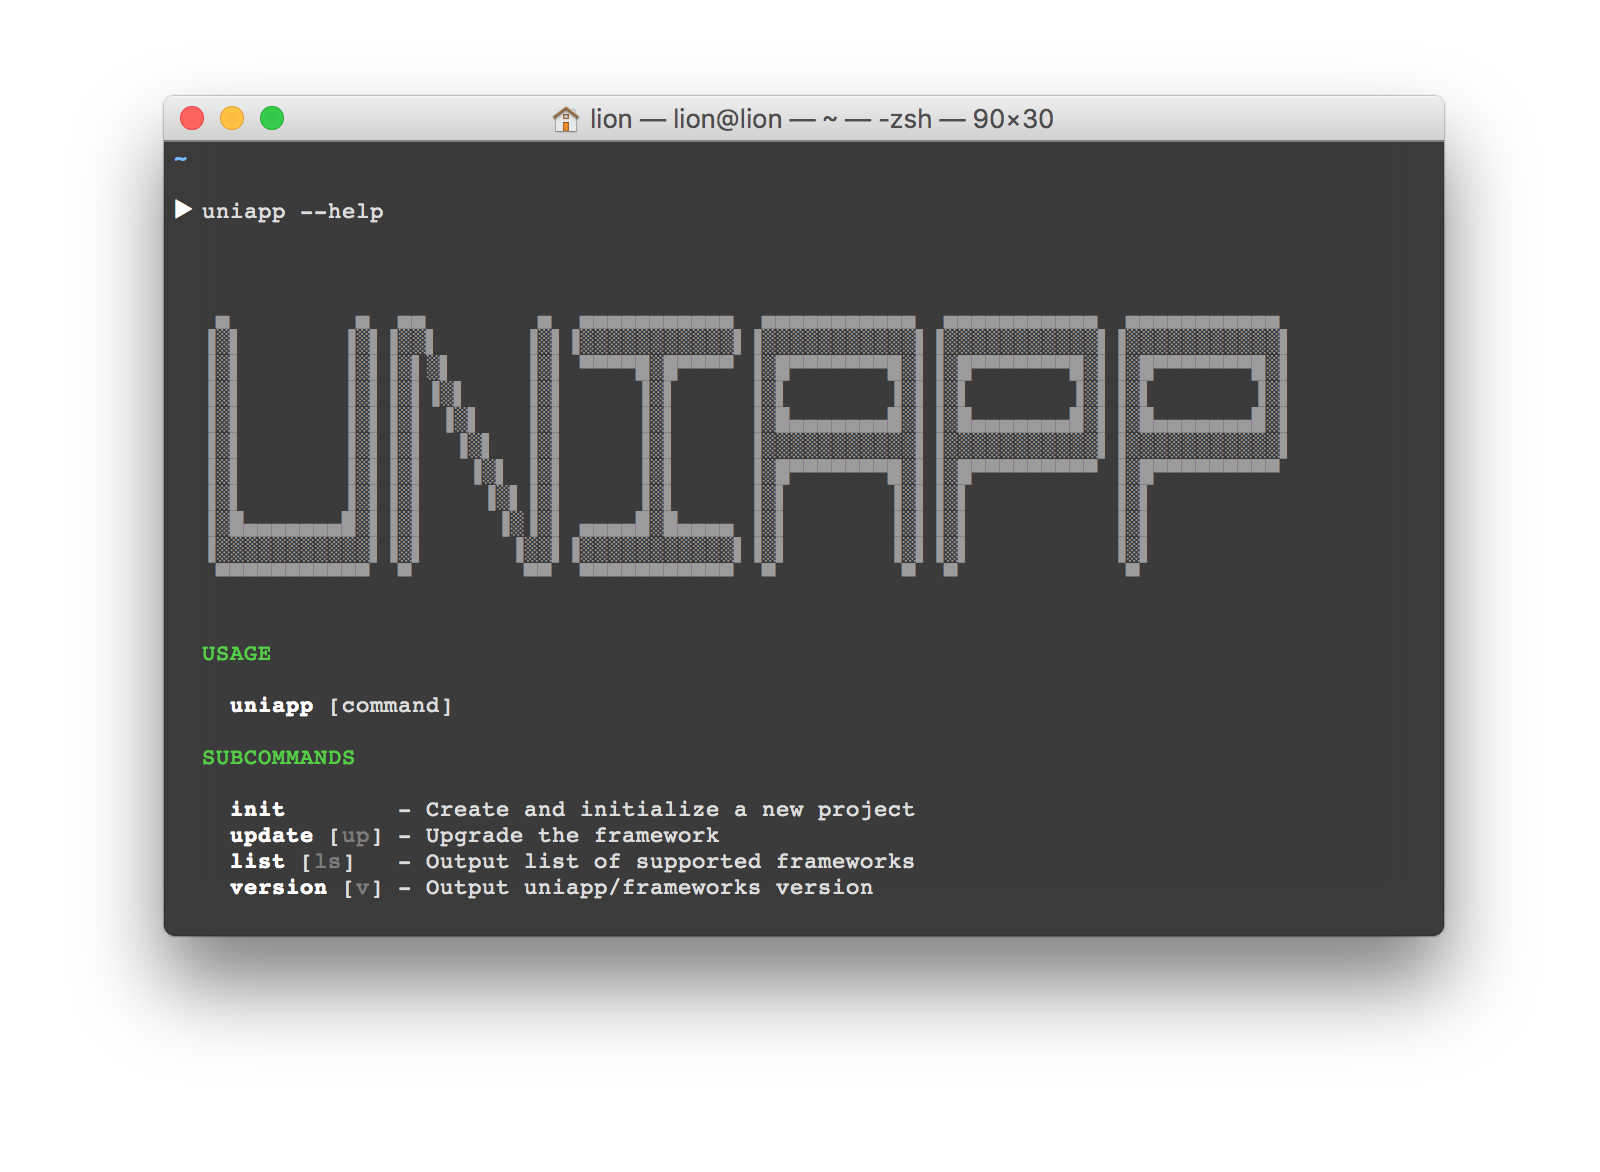
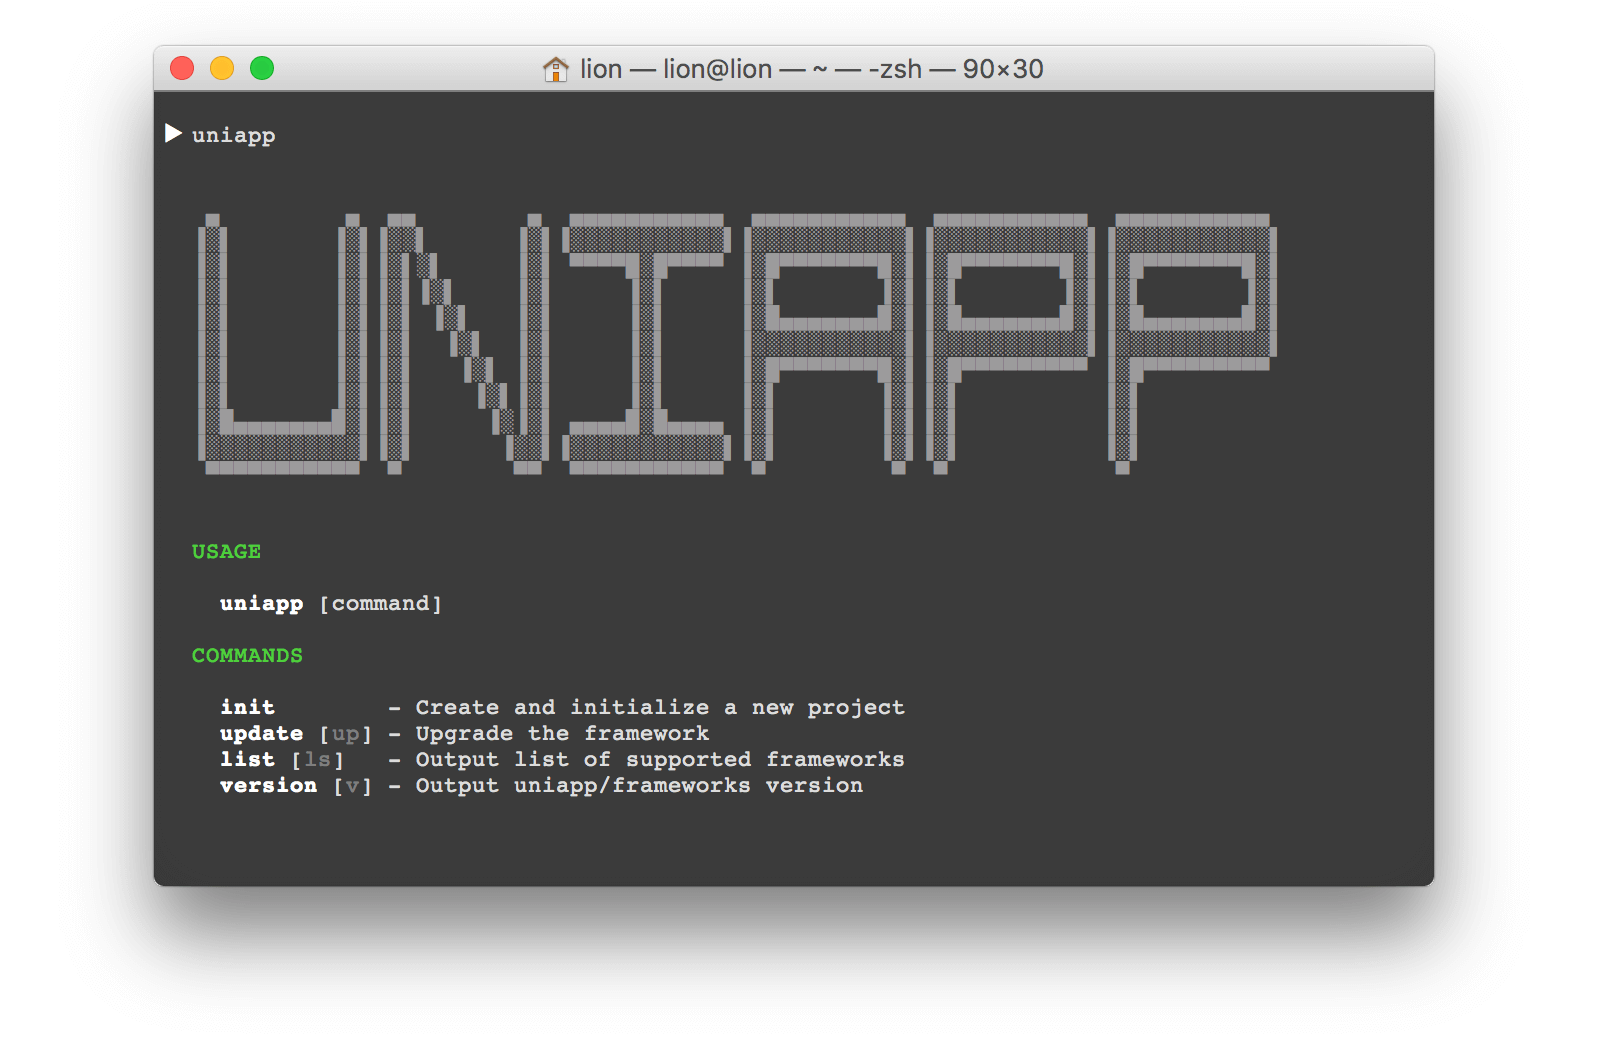
UPD

Changed region(s): [[0.0625, 0.0308, 0.9062, 0.9538]]

diff --git a/src/commands/default.ts b/src/commands/default.ts
@@ -33,7 +33,7 @@ export default class CommandEntry extends Command {
         command: string
     ) {
         if (!command) {
-            return this.getHelp();
+            return CommandEntry.getHelp(true);
         }
 
         throw new UsageError(`command not found: ${command}`, {
@@ -43,14 +43,18 @@ export default class CommandEntry extends Command {
         });
     }
 
-    async getHelp(): Promise<Printable> {
+    static async getHelp(printHeadingDescription: boolean = false): Promise<Printable> {
         let info = new HelpInfo();
-        let description = await cli.getHelpDescription();
+        let description: string | undefined;
         let subcommandHelpInfo = await cli.getHelp(false);
+
+        if (printHeadingDescription) {
+            description = await cli.getHelpDescription();
+        }
 
         info.buildDescription(description);
         info.buildTextsForParamsAndOptions(CommandEntry);
-
+        
         return {
             print: async (stdout, stderr) => {
                 stderr.write(`${info.text}\n${subcommandHelpInfo.text}\n`);
